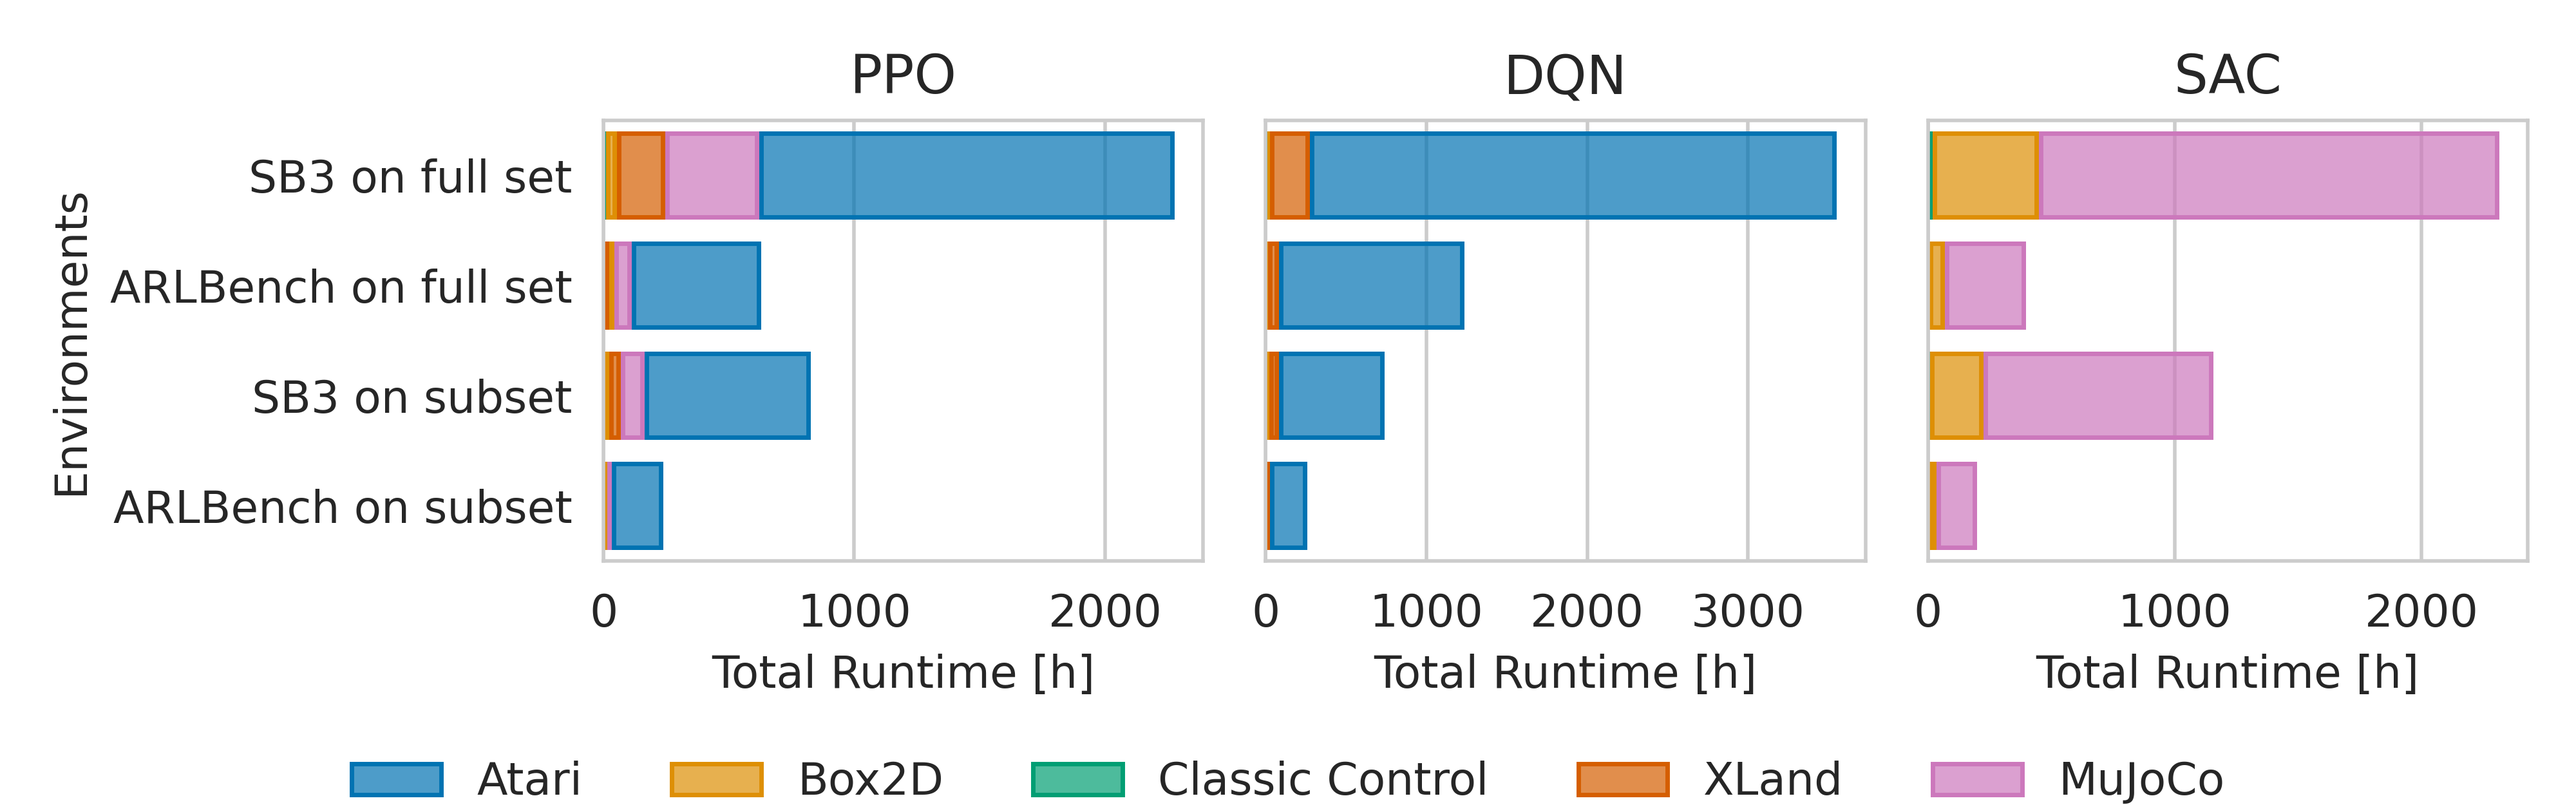
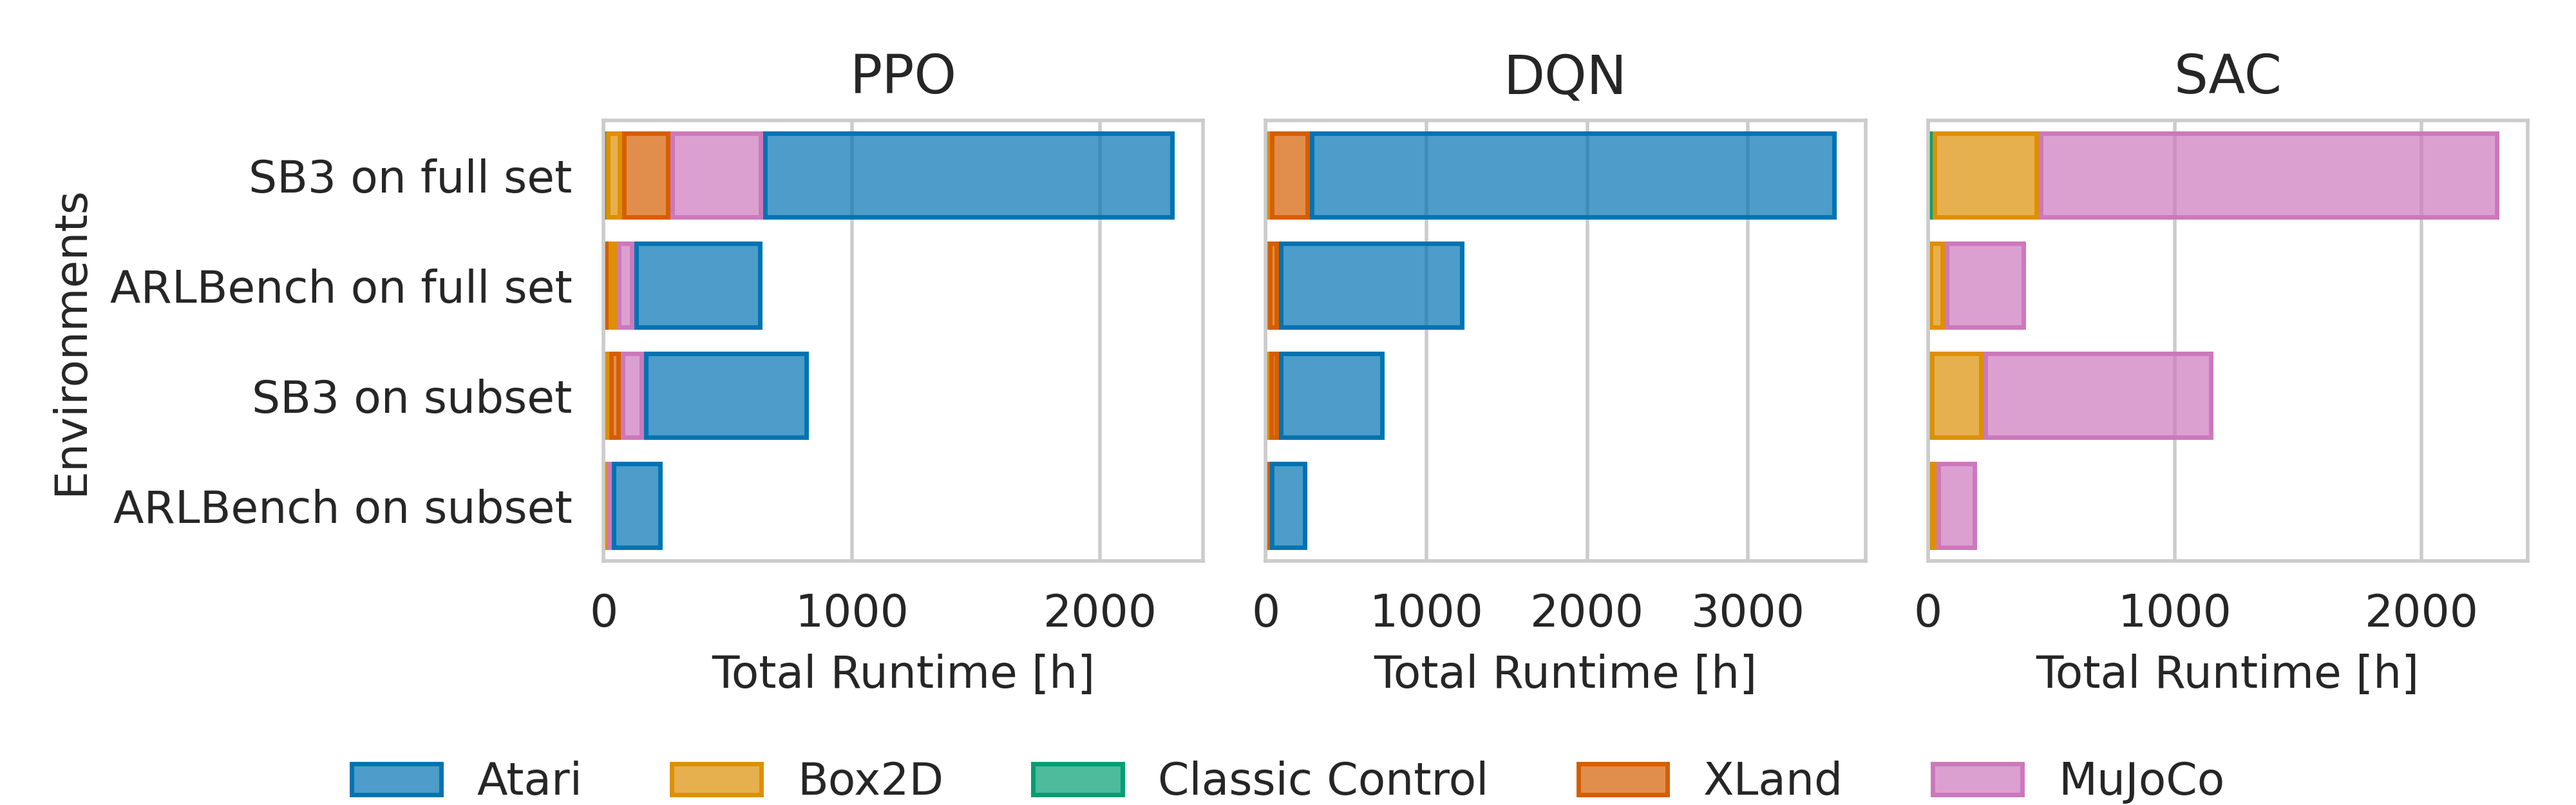
added missing box2d experiment

diff --git a/runtime_comparisons/plot_runtime_comparisons.py b/runtime_comparisons/plot_runtime_comparisons.py
@@ -27,7 +27,7 @@ N_OPT_RUNS = 4 * 3 * 32 * 4     # 4 optimizers * 3 optimizer seeds * 32 * 3 RL s
 
 ENV_CATEGORIES = {
     "ppo": [
-        "Atari", "Atari", "Atari", "Atari", "Atari", "Box2D", "Box2D", "MuJoCo", "MuJoCo", "MuJoCo", "MuJoCo",
+        "Atari", "Atari", "Atari", "Atari", "Atari", "Box2D", "Box2D", "Box2D", "MuJoCo", "MuJoCo", "MuJoCo", "MuJoCo",
         "Classic Control", "Classic Control", "Classic Control", "Classic Control", "Classic Control",
         "XLand", "XLand", "XLand", "XLand"
         ],
